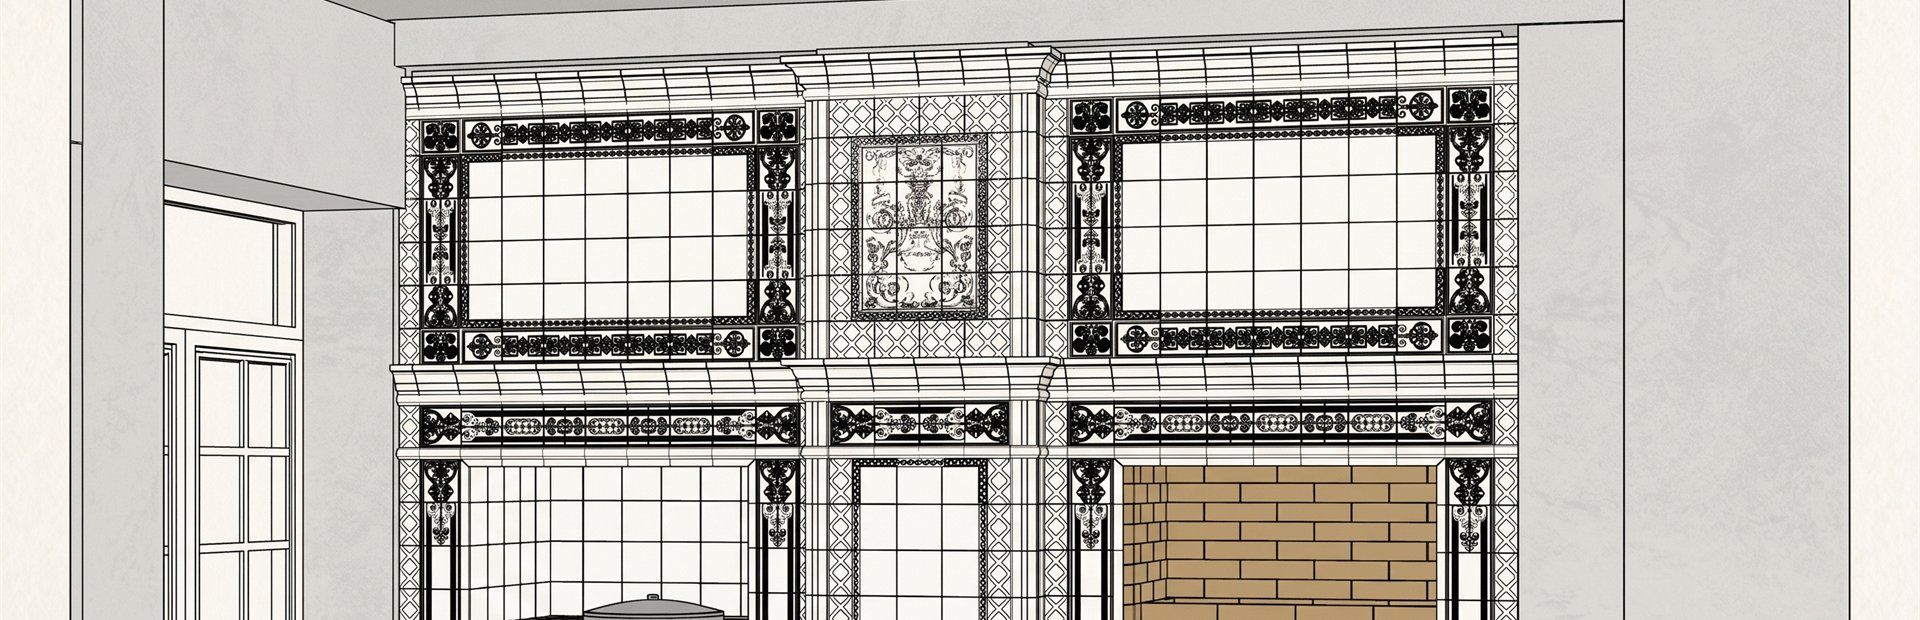
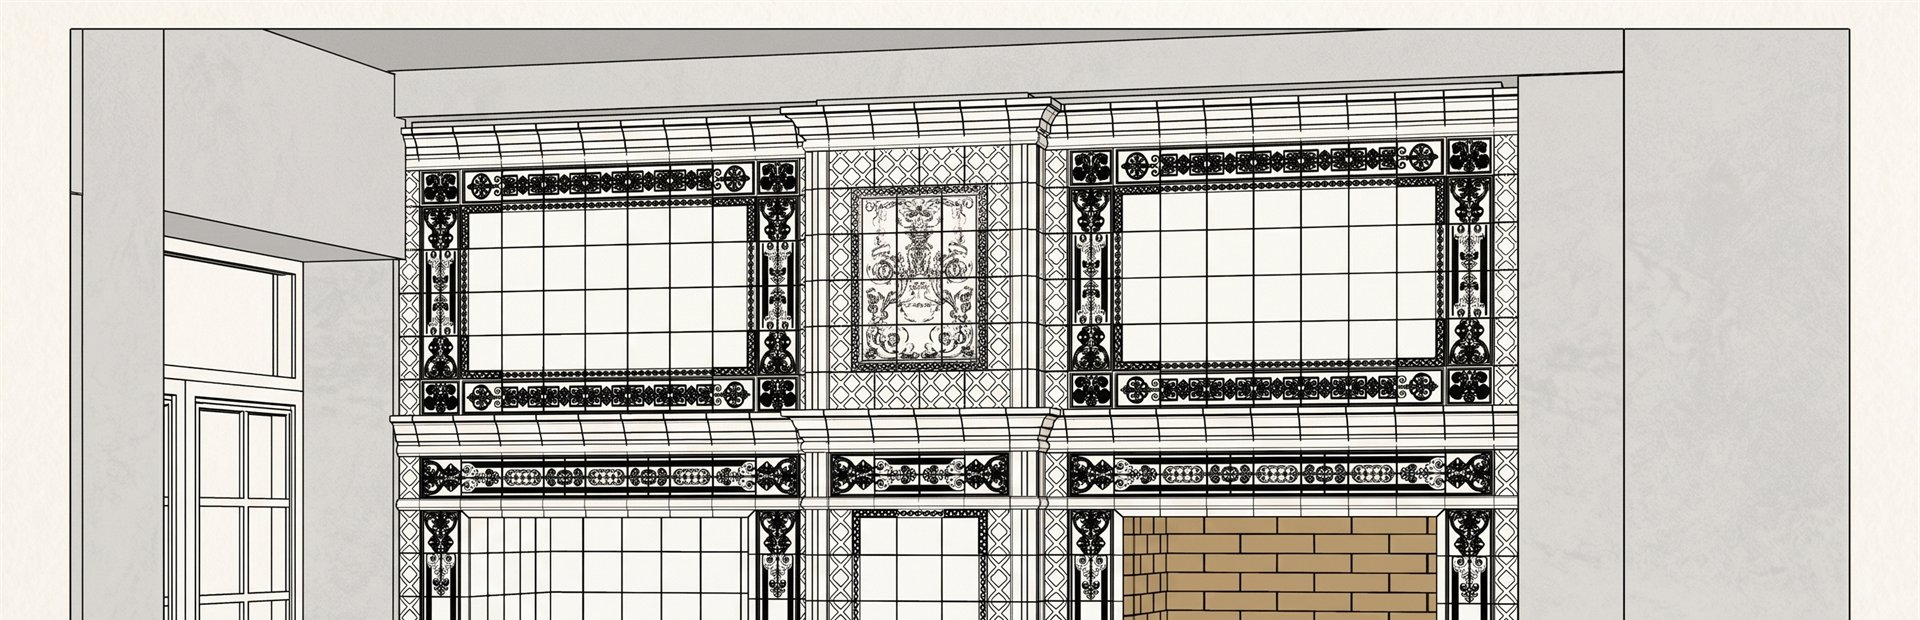
Баннер проектов в работе перекадрирован: в кадр попал верх печи
Полоса кадрирования сдвинута к самому верху исходника proect_design.jpg
(было со смещением 73 px), поэтому сверху видны потолок и карниз печи,
а низ с топкой ушёл за границу кадра. Версия в адресе картинки поднята
до ?v=20260723-3, иначе браузер отдаёт старый файл из кеша.

diff --git a/catalog-proekty-v-rabote.html b/catalog-proekty-v-rabote.html
@@ -33,7 +33,7 @@
       display: flex;
       align-items: center;
       justify-content: center;
-      background: url('images/banner-proekty_desktop.jpg?v=20260723-2') center top/cover no-repeat;
+      background: url('images/banner-proekty_desktop.jpg?v=20260723-3') center top/cover no-repeat;
       margin-bottom: 0;
       box-sizing: border-box;
       overflow: hidden;
@@ -1287,7 +1287,7 @@
     <div class="catalog-hero__bg">
       <picture>
         <source media="(max-width: 768px)" srcset="images/banner-proekty_mobile.jpg?v=20260723-2">
-        <img src="images/banner-proekty_desktop.jpg?v=20260723-2" alt="Проекты в работе CeramicaDecor" loading="eager" fetchpriority="high" decoding="async">
+        <img src="images/banner-proekty_desktop.jpg?v=20260723-3" alt="Проекты в работе CeramicaDecor" loading="eager" fetchpriority="high" decoding="async">
       </picture>
     </div>
     <div class="catalog-hero__overlay"></div>
